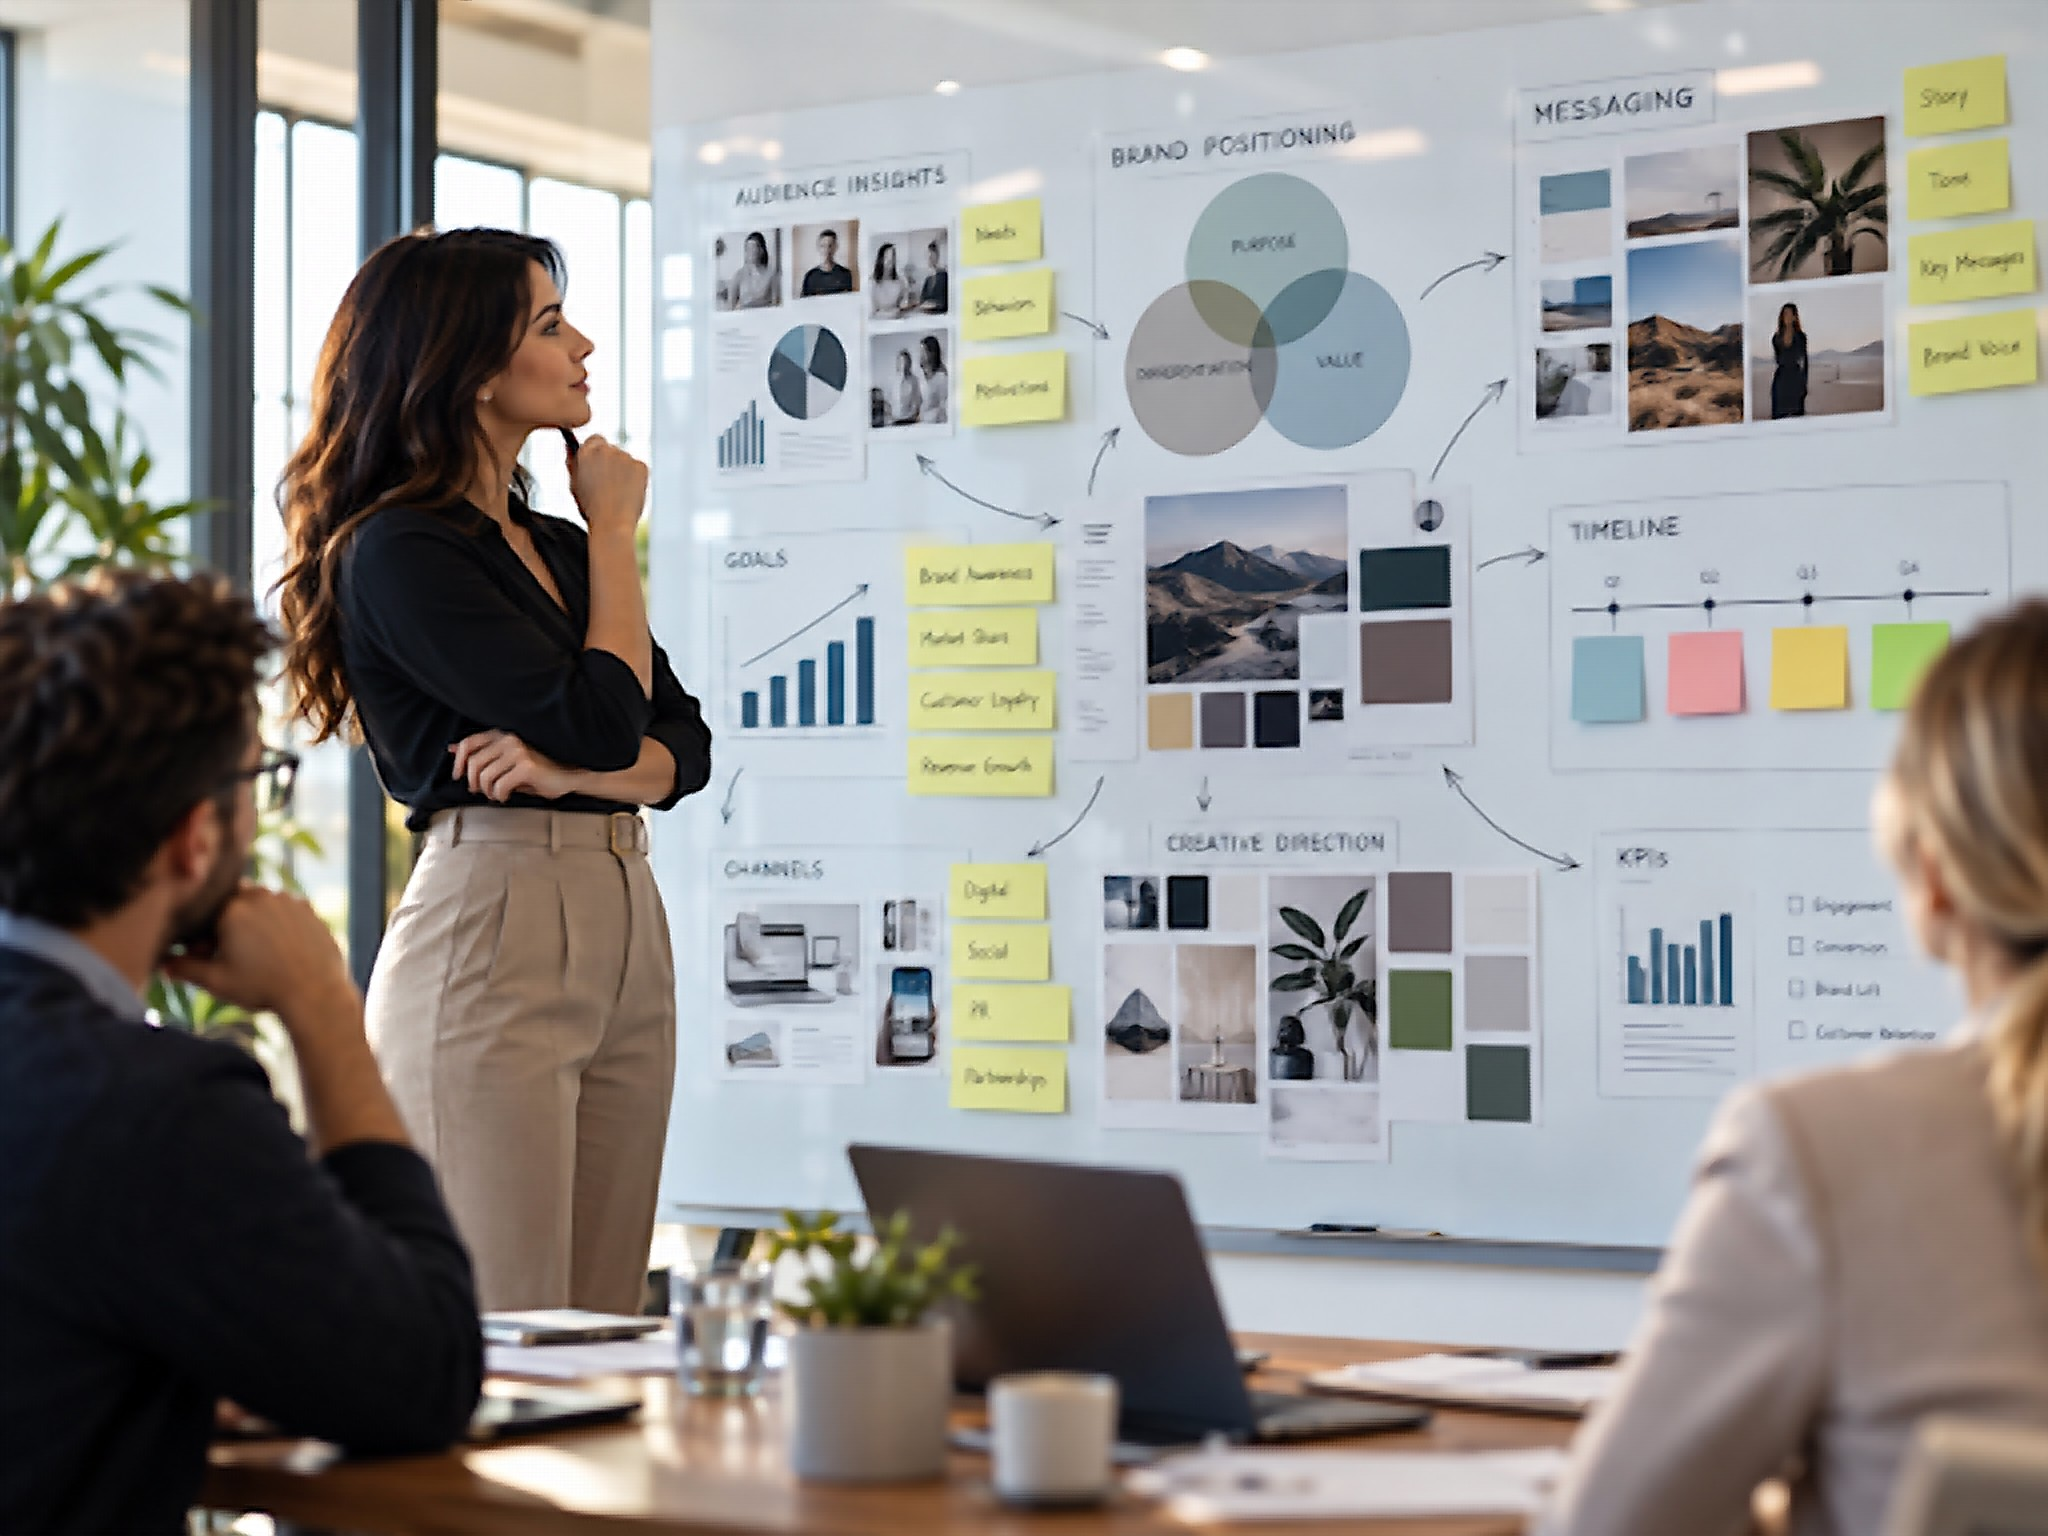
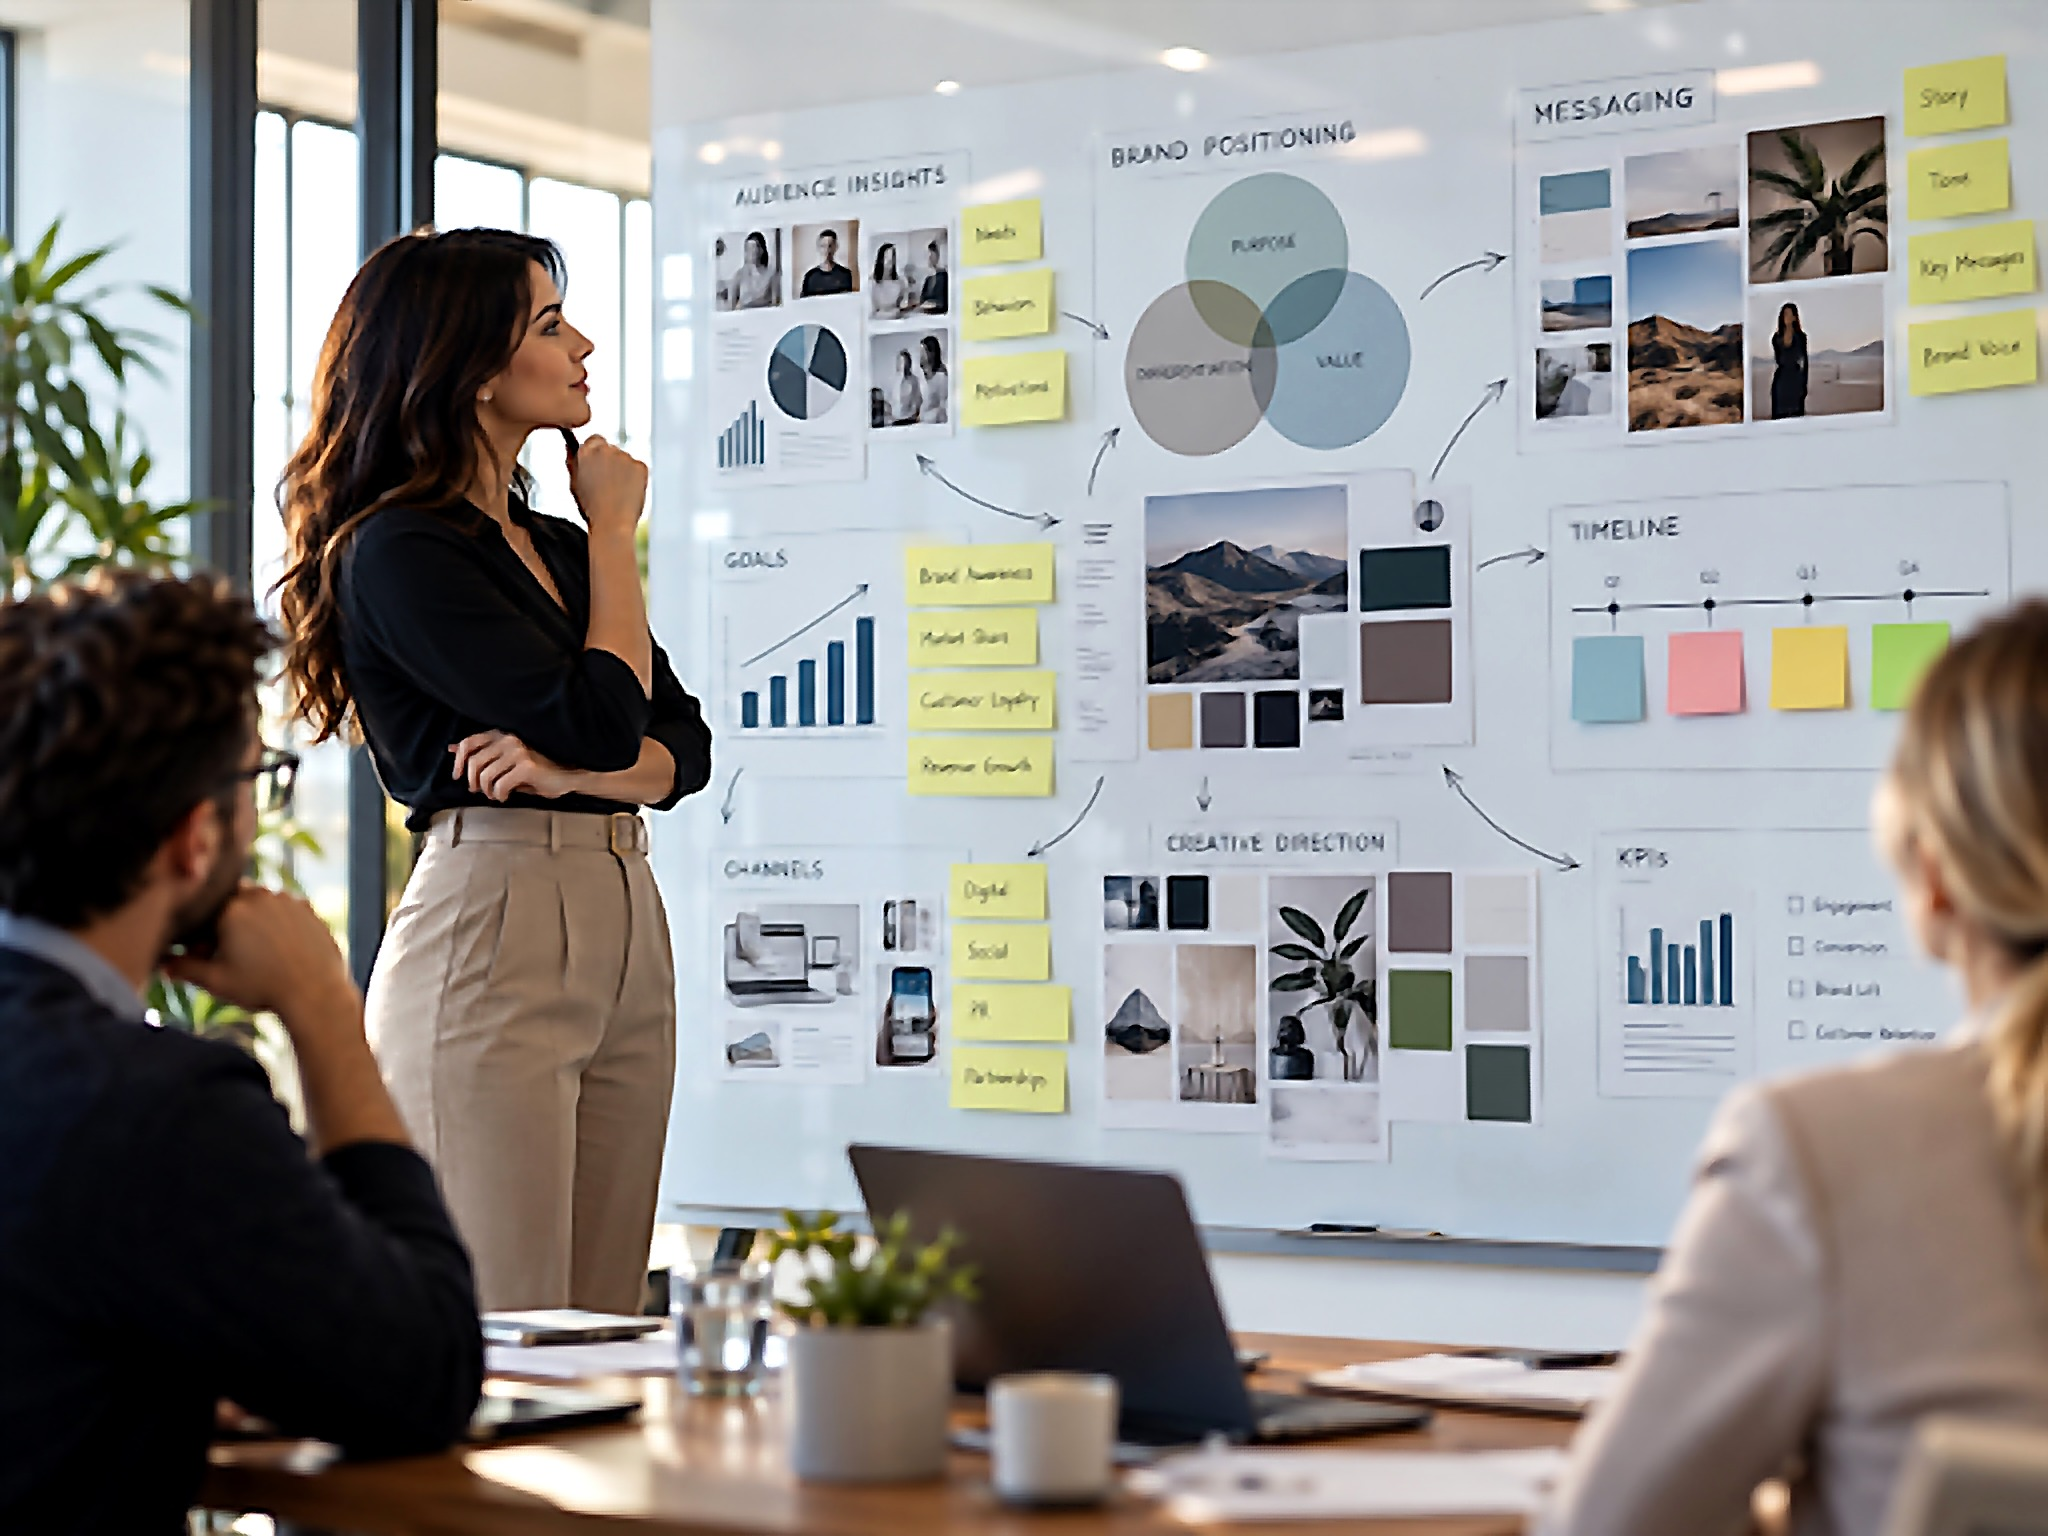
Sharpen hero images and fix remaining "Outlaw" phrasing in blog 2
Images: both recent hero photos were upscaled from 512px source
images, which left visible softness even after the initial sharpen
pass. Added a bilateral denoise before a stronger unsharp mask to cut
down the "waxy" AI-upscale look and recover more edge definition
(e.g. dashboard text and facial detail are noticeably more legible
now). This still can't fully substitute for a genuinely high-res
source — flagging separately.

Text: "How a Brand Development Agency..." used "Outlaw the Ordinary"
and "Outlawing the Ordinary" as verb/gerund phrasing in 4 spots (meta
description, intro paragraph, and two H2s). Changed all of them to
reference the established "Outlaws of Ordinary" brand phrase directly,
matching the noun-phrase usage already fixed in the dwell-time post.

Claude-Session: https://claude.ai/code/session_01VrQcqN5oQwgFrYtM2Yoxzx

diff --git a/src/data/articles.ts b/src/data/articles.ts
@@ -122,11 +122,11 @@ export const articles: Article[] = [
     headerImage: "/images/blog/brand-development-agency/brand-development-agency-hero.jpg",
     headerImageAlt: "Marketing leader reviewing a brand development agency strategy map",
     seoTitle: "How a Brand Development Agency Brings Your Vision to Life | Brand Iron",
-    metaDescription: "Learn how a brand development agency uses intelligence and strategy to transform your vision into a market-ready brand. Outlaw the ordinary today.",
+    metaDescription: "Learn how a brand development agency uses intelligence and strategy to transform your vision into a market-ready brand. Join the Outlaws of Ordinary today.",
     ogTitle: "How a Brand Development Agency Brings Your Vision to Life",
     ogDescription: "Learn how a brand development agency uses intelligence and strategy to transform your vision into a market-ready brand.",
     body: [
-      { type: "p", text: "You have a vision. It's clear in your head, but when you try to explain it to the market, something gets lost in translation. You feel like your business is just another face in a crowded room. This is the moment most leaders realize they don't just need a new logo; they need a brand development agency that knows how to \"Outlaw the Ordinary.\"" },
+      { type: "p", text: "You have a vision. It's clear in your head, but when you try to explain it to the market, something gets lost in translation. You feel like your business is just another face in a crowded room. This is the moment most leaders realize they don't just need a new logo; they need a brand development agency built on the \"Outlaws of Ordinary\" methodology." },
       { type: "p", text: "Bringing a vision to life isn't about magic or luck. It's about a specific, rigorous framework. At Brand Iron, we approach this through a three-pillar system: Intelligence, Strategy, and Execution." },
       { type: "p", text: "Here is how that process actually works to turn your ideas into a brand that people notice and trust." },
 
@@ -147,7 +147,7 @@ export const articles: Article[] = [
       { type: "h3", text: "Internal Intelligence" },
       { type: "p", text: "It isn't just about the outside world. We look at your internal structures. We use a User Role and Permission Hierarchy to understand how information flows through your company. This ensures that when we build a brand, the people responsible for maintaining it have the right access and the right guardrails to keep the message consistent." },
 
-      { type: "h2", text: "The Strategy Phase: Outlawing the Ordinary" },
+      { type: "h2", text: "The Strategy Phase: The Outlaws of Ordinary" },
       { type: "p", text: "Once we have the data, we move to Strategy. As MarTech's guide to long-term brand strategy underscores, a brand that lasts is built through deliberate, structured planning — not reactive tactics. This is where we take your vision and sharpen it into a weapon.",
         links: [{ text: "MarTech's guide to long-term brand strategy", href: "https://martech.org/building-a-brand-strategy-essentials-for-long-term-success/" }] },
 
@@ -183,7 +183,7 @@ export const articles: Article[] = [
         ["Execution", "Content Calendars & Resource Management", "Put the brand in front of the audience."],
       ] },
 
-      { type: "h2", text: "Why \"Outlawing the Ordinary\" Matters" },
+      { type: "h2", text: "Why \"Outlaws of Ordinary\" Matters" },
       { type: "p", text: "Ordinary brands are safe. Ordinary brands follow the leader. Ordinary brands are eventually forgotten." },
       { type: "p", text: "When you work with a brand development agency, you are making a choice to be different. You are choosing to use structured AI governance to protect your brand's integrity while using social sentiment to stay connected to your customers' hearts. You are moving from just \"having a business\" to \"having a presence.\"" },
 
